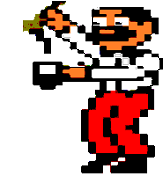
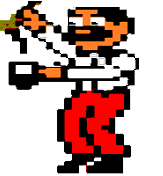
tapper3

diff --git a/games/tapper/tapper.py b/games/tapper/tapper.py
@@ -4,7 +4,7 @@ import time
 import sys
 
 #from balls import BallsHelper, Ball
-#from info import info
+from board import Board
 from bartender import Player
 from drawer import Drawer
 
@@ -22,34 +22,44 @@ def main():
 
     running = True
     screen.fill((0,0,0))  # Clear the screen
-    drawer = Drawer()
-    player = Player()
-    drawer.draw_sprite(player)
+    
+    board = Board()
+    drawer = Drawer(board.player)
+    drawer.draw_sprite(board.player)
     drawer.draw_background()
     #info(screen)
-    
+
     try:
         while running:
             for event in pygame.event.get():
                 if event.type == pygame.QUIT:
                     running = False
                     pygame.mixer.music.stop()
-            
+
             keys = pygame.key.get_pressed()
             if keys[pygame.K_UP] or keys[ord('w')]:
-                player.move_up()
+                drawer.clear_bartender(board.player)
+                board.move_player_up()
+                drawer.draw_sprite(board.player)
             elif keys[pygame.K_DOWN] or keys[ord('s')]:
-                player.move_down()
+                drawer.clear_bartender(board.player)
+                board.move_player_down()
+                drawer.draw_sprite(board.player)
             elif keys[pygame.K_LEFT] or keys[ord('a')]:
-                player.move_left()
+                drawer.clear_bartender(board.player)
+                board.move_player_left()
+                drawer.draw_sprite(board.player)
+            elif keys[pygame.K_RIGHT] or keys[ord('d')]:
+                drawer.clear_bartender(board.player)
+                board.move_player_right()
+                drawer.draw_sprite(board.player)
  #           
  #           BallsHelper.draw_balls(screen)
- #           pygame.display.flip()  # Update the screen
- #           
+ #           pygame.display.flip()  # Update the screen #           
  #           time.sleep(0.005)
  #           BallsHelper.clear_balls(screen)
  #           drawer.clear_sprite()
-            drawer.draw_sprite(player)           
+            drawer.draw_sprite(board.player)           
 
             clock.tick(4)  # Limit the frame rate to 60 FPS
 

diff --git a/games/tapper/drawer.py b/games/tapper/drawer.py
@@ -8,7 +8,13 @@ BLACK = (0, 0, 0)
 CYAN = (0, 255, 255)
 WHITE = (250, 250, 250)
 YELLOW = (238, 238, 119)
-BACKGROUND = (74, 74, 73)
+BACKGROUND = (172, 234, 140)
+
+class Size:
+
+    def __init__(self, width, height):
+        self.width = width
+        self.height = height
 
 class Drawer:
 
@@ -18,28 +24,34 @@ class Drawer:
 
     title = "TAPPER"
 
-    def __init__(self):
-        self.sprite_bitmap = None
+    def __init__(self, player):
+        self.sprite_bitmap = pygame.image.load(player.get_sprite_path()).convert_alpha()
         self.window = pygame.display.set_mode((Drawer.width, Drawer.window_height))
         self.clock = pygame.time.Clock()
+        self.bartender_size = Size(self.sprite_bitmap.get_width(), self.sprite_bitmap.get_height())
+        
         pygame.display.set_caption(Drawer.title)
 
     def draw_background(self):
         background_bitmap = pygame.image.load("resources/background.png")
 
-        double_bitmap = pygame.Surface((background_bitmap.get_width(), background_bitmap.get_height()))
-        double_bitmap.blit(background_bitmap, (0, 0))
-        #double_bitmap.blit(background_bitmap, (background_bitmap.get_width(), 0))
+        bitmap = pygame.Surface((background_bitmap.get_width(), background_bitmap.get_height()))
+        bitmap.blit(background_bitmap, (0, 0))
 
-        self.window.blit(double_bitmap, (0, 0))
+        self.window.blit(bitmap, (0, 0))
         pygame.display.flip()
 
     def draw_sprite(self, player):
-        self.sprite_bitmap = pygame.image.load(player.sprite_path).convert_alpha()
+        self.sprite_bitmap = pygame.image.load(player.get_sprite_path()).convert_alpha()
 
         x = self.sprite_bitmap.get_width()/2 - 5
         y = Drawer.initial_sprite_pos - self.sprite_bitmap.get_height()/2 + 5
-        
+
         self.window.blit(self.sprite_bitmap, (x, y))
         pygame.display.update()
-        
+
+    def clear_bartender(self, player):
+        x = 67
+        y = Drawer.initial_sprite_pos - self.sprite_bitmap.get_height()/2 + 5
+
+        pygame.draw.rect(self.window, BACKGROUND, (x, y, 69, self.bartender_size.height))

diff --git a/games/tapper/board.py b/games/tapper/board.py
@@ -1,0 +1,31 @@
+import logging
+
+from bartender import Player
+
+class Board:
+    
+    def __init__(self):
+        self.player = Player()
+        self.player_slot = 0
+        self.slots = [None] * 4
+        
+    def move_player_up(self):
+        logging.debug('moving UP')
+        self.player_slot = (self.player_slot - 1) % len(self.slots)        
+        logging.debug('Theb bantender is at slot ' + str(self.player_slot))
+        
+    def move_player_down(self):
+        logging.debug('moving DOWN')
+        self.player_slot = (self.player_slot + 1) % len(self.slots)
+        logging.debug('Theb bantender is at slot ' + str(self.player_slot))
+        
+    def move_player_left(self):
+        logging.debug('moving LEFT')
+        self.player.set_status('bar')
+        logging.debug('status ' + self.player.status)
+        
+    def move_player_right(self):
+        logging.debug('moving RIGHT')
+        self.player.set_status('counter')
+        logging.debug('status ' + self.player.status)
+        

diff --git a/games/tapper/bartender.py b/games/tapper/bartender.py
@@ -12,15 +12,12 @@ class Player(Sprite):
         y = 0
         Sprite.__init__(self, x, y, "bardender")
         self.score = 0
+        self.slot = 1
         self.status = 'counter'
         self.status_bitmap_dict = {'counter' : Player.sprite_path, 'bar' : Player.bar_sprite_path}
     
     def get_sprite_path(self):
-        return Player.status_bitmap_dict[self.status]
+        return self.status_bitmap_dict[self.status]
 
-    def move_up(self):
-        logging.debug('moving UP')
-        
-    def move_down(self):
-        logging.debug('moving DOWN')
-        
+    def set_status(self, new_status):
+        self.status = new_status
